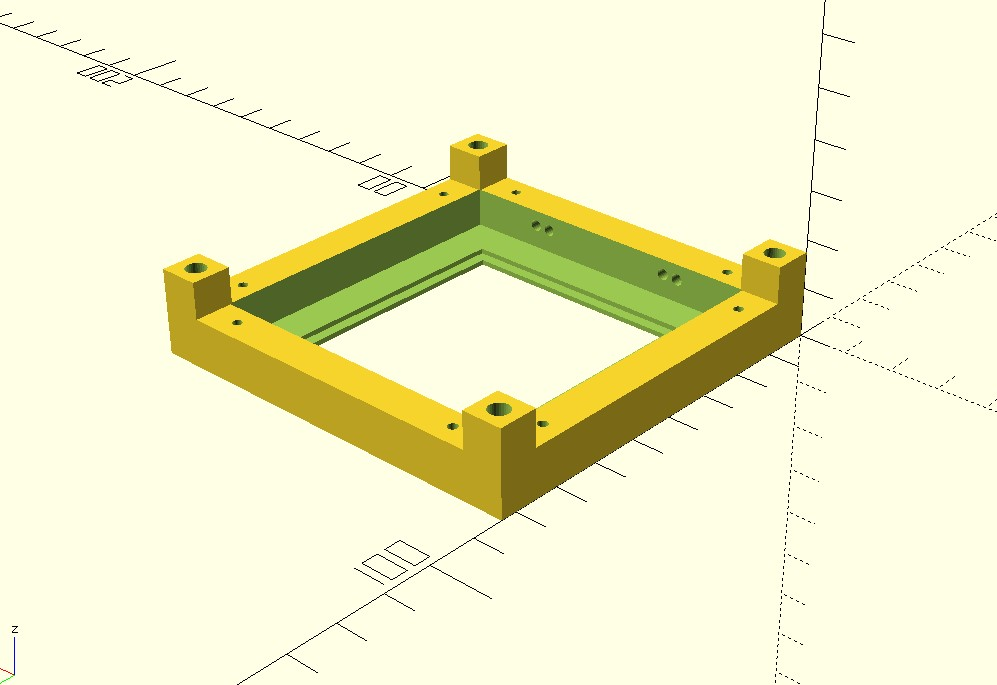
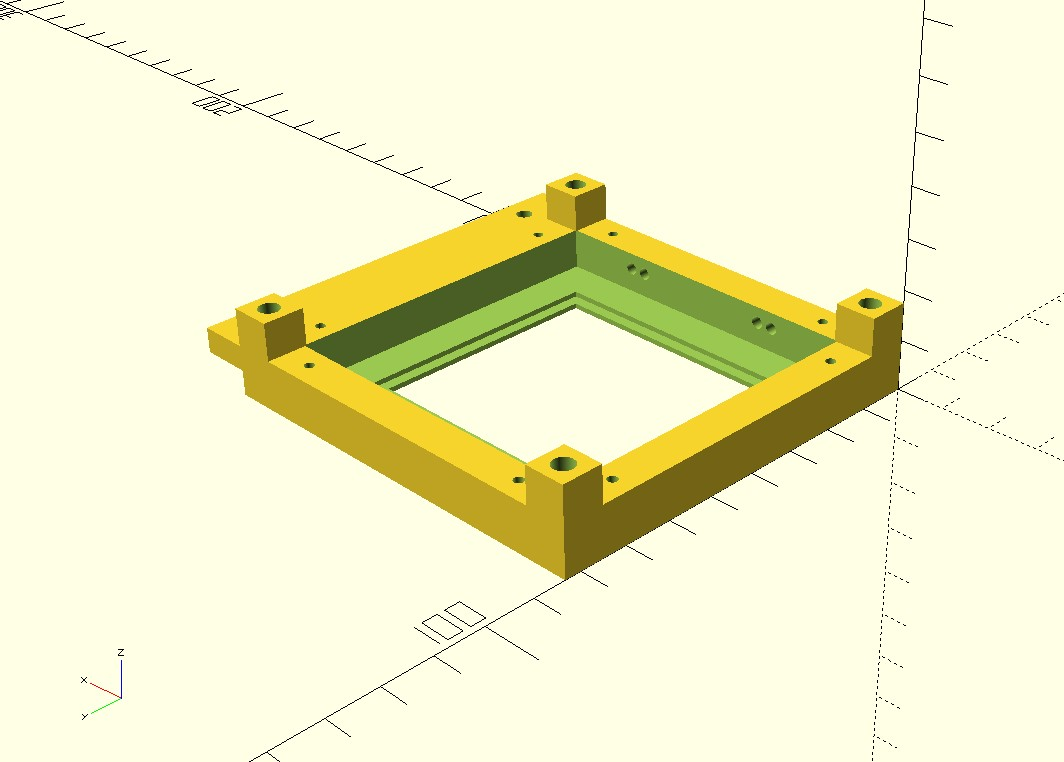
Add missing 3D images

diff --git a/README.md b/README.md
@@ -109,6 +109,10 @@ https://www.amazon.de/PNGKNYOCN-IEC320-Stecker-Adapter-Sicherungshalter/dp/B0BWF
 <img alt="top-insulation-stencil-copper" src="images/parts/top_insulation_stencil_copper.jpg" width="200">
 - Top Insulation Stencil Peltier
 <img alt="top-insulation-stencil-peltier" src="images/parts/top_insulation_stencil_peltier.jpg" width="200">
+- Light Connector Box
+<img alt="light-connector" src="images/parts/top_light_connector.jpg" width="200">
+- LED Carrier
+<img alt="led-carrier" src="images/parts/top_led_carrier.jpg" width="200">
 
 ## Other things required
 
